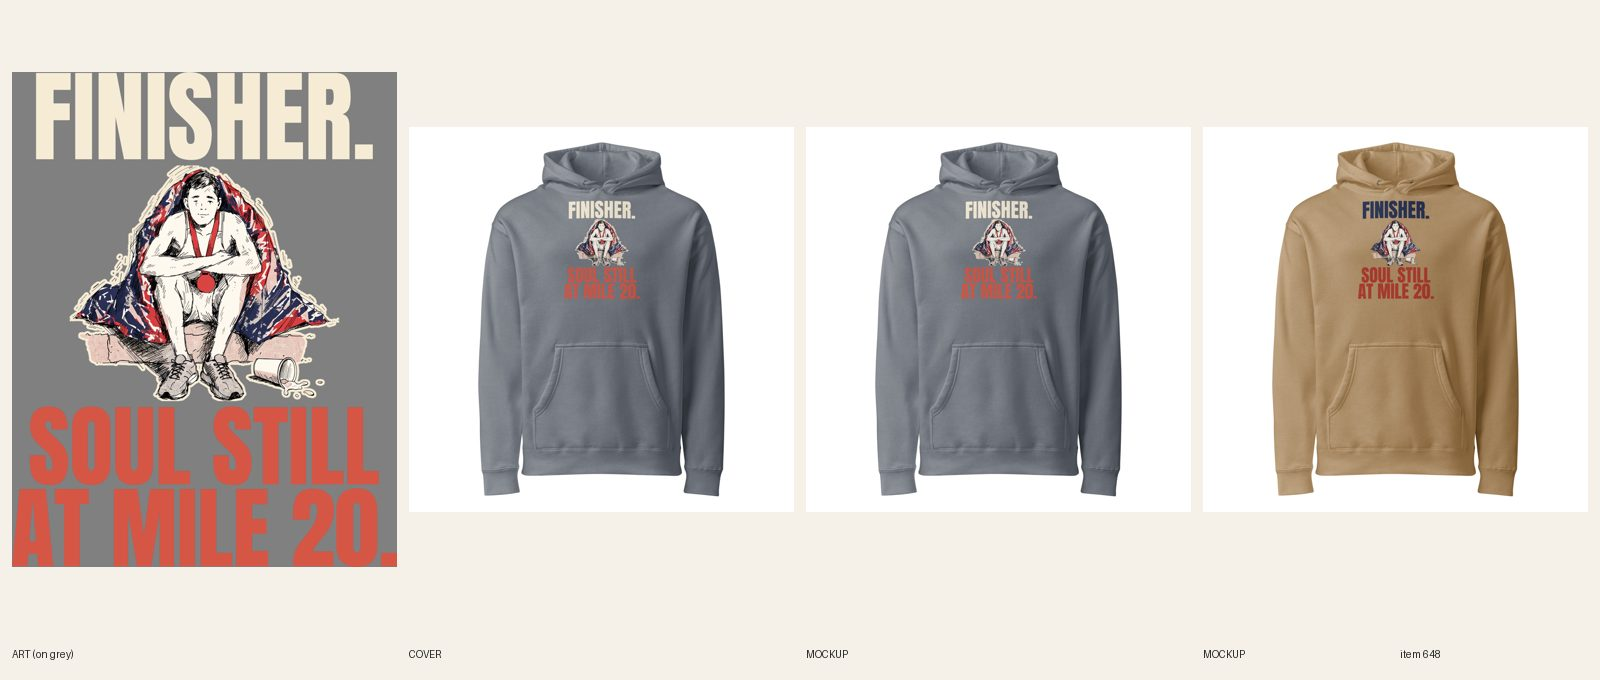
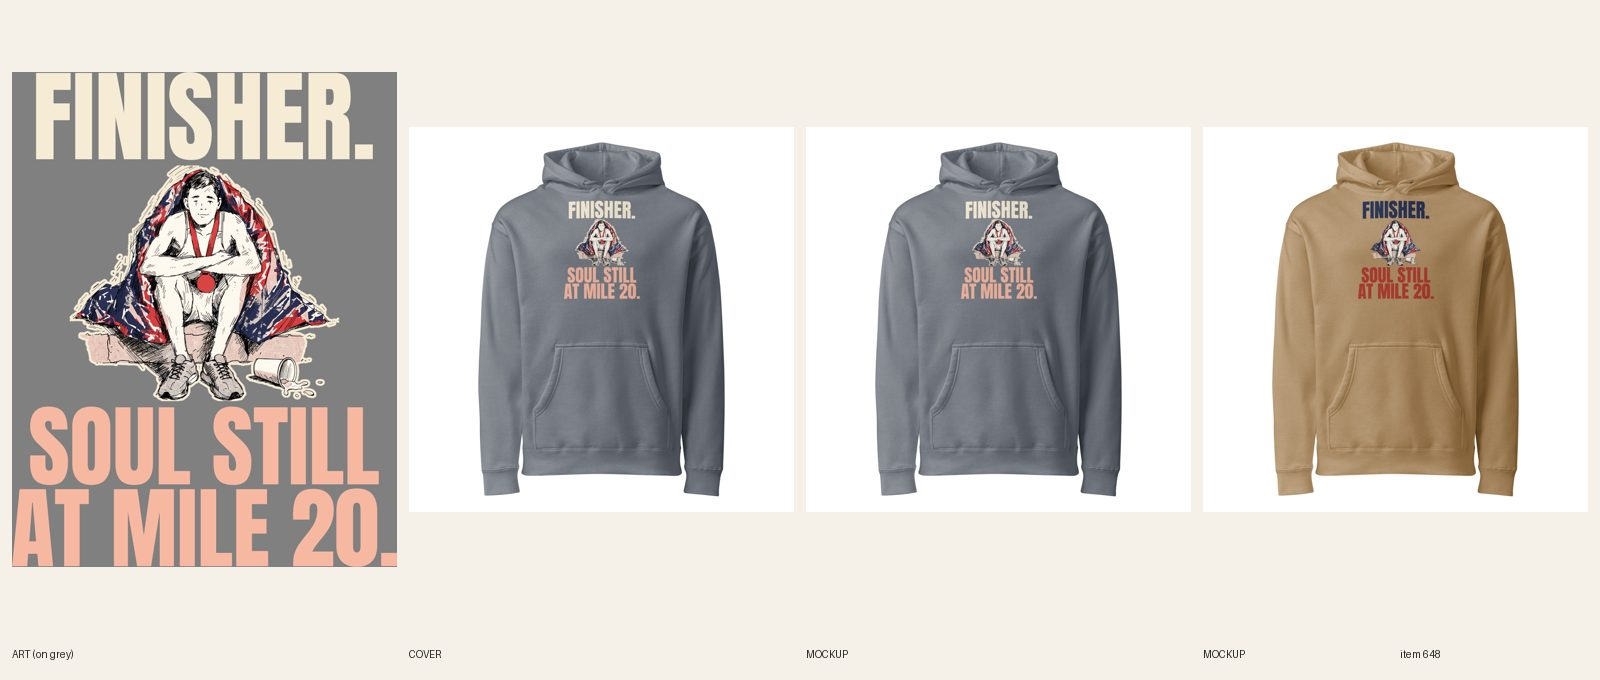
[C] review 648 Storm Blue punch light ink

Changed region(s): [[0.0, 0.5868, 0.25, 0.8338], [0.5938, 0.3706, 0.6562, 0.4632], [0.3438, 0.3706, 0.4062, 0.4632]]

diff --git a/designs/c648/build.py b/designs/c648/build.py
@@ -6,7 +6,7 @@ W=3400; AH=1750; art=art.resize((round(art.width*AH/art.height),AH),Image.LANCZO
 def halo(a,px):
     al=np.array(a.getchannel('A')); k=cv2.getStructuringElement(cv2.MORPH_ELLIPSE,(2*px+1,2*px+1)); d=cv2.dilate(al,k)
     h=Image.new('RGBA',a.size,CREAM); h.putalpha(Image.fromarray(d)); h.alpha_composite(a); return h
-CR=(246,236,214,255); RD=(214,86,70,255); NV=(31,42,77,255); RD2=(176,54,42,255)
+CR=(246,236,214,255); RD=(247,184,162,255); NV=(31,42,77,255); RD2=(176,54,42,255)
 for mode,(hc,pc,aa,bg) in {'storm':(CR,RD,halo(art,16),(60,80,110,255)),'sand':(NV,RD2,art,(212,196,166,255))}.items():
     h=line('FINISHER.','anton',0.75,W,hc,hc,kw=3); ps=line_same(['SOUL STILL','AT MILE 20.'],'anton',0.85,W,pc,pc,kw=3)
     out=lockup(aa,W,[h],ps,f'648-{mode}',{mode:bg},g=40)

diff --git a/docs/pipeline/648-marathon-hoodie-finisher-still-at-mile-20.md b/docs/pipeline/648-marathon-hoodie-finisher-still-at-mile-20.md
@@ -1,4 +1,4 @@
-status: BUILDING [C] 2026-10-20 23:13 UTC
+status: REVIEW
 shopify: gid://shopify/Product/15371137712432
 lane: C
 type: new
@@ -31,3 +31,4 @@ kd: 30
 - 2026-10-20 12:55 UTC director: RE-SCORE for the RESUME terms (lane C asked at 13:00). Still READY with a NEW text line (the thin script caption is retired). Text on shirt: FINISHER. above the art / SOUL STILL AT MILE 20. below it, both heavy in one display face from the kit, punch at least as wide as the headline (break it onto two lines if needed), colors from the art; Sandstone gets the solid dark-ink file. Every marathoner knows mile 20; an outsider reads "finished, barely". Primary keyword, blank and tags unchanged; title becomes "<Audience> Marathon – Finisher. Soul Still at Mile 20. Hoodie" (card 7i). Cover: none (RESUME terms 2026-10-19): plain Printful product shots only, no registry claim, handle into src/data/retired-covers.json if needed; ignore any cover/registry line above. Type checks before REVIEW: 7h ink widths, 7k type share, 7l subject at 45%+ of the lockup width, all logged.
 - Built new (RESUME re-score text): Recraft v4 1 call ($0.04 + one repeat after a save error, $0.08 total, logged), slumped marathoner in a foil blanket, print-prep --solid + designs/lib.py lockup (designs/c648/build.py): FINISHER. above, SOUL STILL / AT MILE 20. below, Anton (one display face), cream + coral on Storm Blue with a cream edge on the art, navy + red solid ink on Sandstone. 7h: headline 2505 px / punch 2593 and 2862 px (widest punch line 114% of headline, punch is two lines). 7k: type 1822 px of 3676 px print height (50%). 7l: subject 2003 px of 2862 px lockup width = 70%. Light file logged: Sandstone on 1090706949 (navy headline, red punch, no cream), Storm Blue on 1090707063 (cream headline, coral punch, cream edge). FW 1500 TOP 30 (print 1,927 px high at 1500 wide, clear of the pouch seam on both mockups, checked). Verified 14/14 (7 Sandstone, 7 Storm Blue) relinked. Shopify: title Men's Marathon – Finisher. Soul Still at Mile 20. Heavyweight Hoodie (handle per card), category hoodies, $49.99 no compare-at, tags per brief, SEO title 50 / meta 135, FAQ 5 x 50-58 words, order-by Dec 8, keyword marathon hoodie 480/KD 30 in map. Copy nouns checked against the art (singlet, foil blanket, plain medal on red ribbon, tipped cup, curb). Line one: print's words + who + when, no superlative. Mockups: Storm Blue front, Sandstone front, Storm Blue back with neck logo; variants linked per colour. Phone-size read of both fronts OK. Cover: flat product shot (retired-covers.json, no registry claim). Etsy check unavailable to builder. Audit: only 'not visible'. fal $0.08.
 - 2026-10-20 22:40 UTC director: REDO on docs/review/648.jpg. 1. R5.3.8/R5.3.5: SOUL STILL AT MILE 20. is coral-red on Storm Blue and nearly vanishes at phone size (both Storm Blue panels); Storm Blue is a mid-tone, so the punch needs a light ink there (cream, or a pale coral at least 2 steps lighter) while FINISHER. stays cream; keep the red only on Sandstone. 2. Read both lines on the Storm Blue mockup at phone size before REVIEW and log it. Line, art and widths are good; no new art (fal $0).
+- REDO done (director 22:40, R5.3.8/R5.3.5): the Storm Blue punch SOUL STILL / AT MILE 20. was coral-red #d65646 on a mid-tone blank. Re-set in a pale coral #f7b8a2 (about 4 steps lighter, light ink); FINISHER. stays cream #f6ecd6; Sandstone keeps navy + red (unchanged file 1090706949). New Storm Blue file 1090743343 (2862x3676), designs/c648/build.py. Widths unchanged: headline 2505 px / punch 2593 and 2862 px (114%), type 50%, subject 70% of lockup width. Verified 14/14 (7 Sandstone on 1090706949, 7 Storm Blue on 1090743343). Storm Blue front mockup replaced in place (fileUpdate, alt kept); phone-size read of the Storm Blue mockup: FINISHER. cream and SOUL STILL / AT MILE 20. pale coral both read clearly against the blue, the runner and foil blanket read. Copy updated: 'Storm Blue carries cream and pale coral lettering'. fal $0.

diff --git a/docs/intake-log.md b/docs/intake-log.md
@@ -9,6 +9,7 @@
 2026-10-20 21:31 UTC — [C] Builder run: #693 strawberry mug punch widened to 100% of headline, REVIEW.
 2026-10-20 21:30 UTC — [C] Builder run: #692 alien mug photos re-attached (3 mockups), REVIEW.
 RUNNING lane C since 2026-10-20 21:30 UTC
+[C] Builder run: #648 marathon hoodie Storm Blue punch re-set in pale coral, REVIEW.
 [C] Builder run: #641 women's baseball mom zip hoodie HIS BATTING AVERAGE IS MY PERSONALITY. built to REVIEW (DRAFT 15371252269360).
 [C] Builder run: #646 women's mom hoodie MOTHERHOOD DIDN'T CHANGE ME. IT EXPOSED ME. built to REVIEW (DRAFT 15371239850288).
 [C] Builder run: #699 women's nana hoodie MOM SAID NO? THAT'S CUTE. built to REVIEW (DRAFT 15371225465136).
